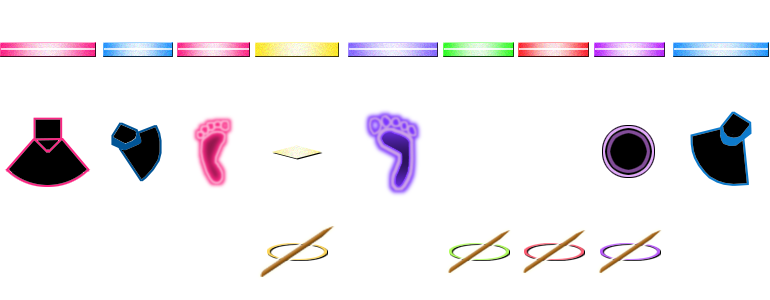
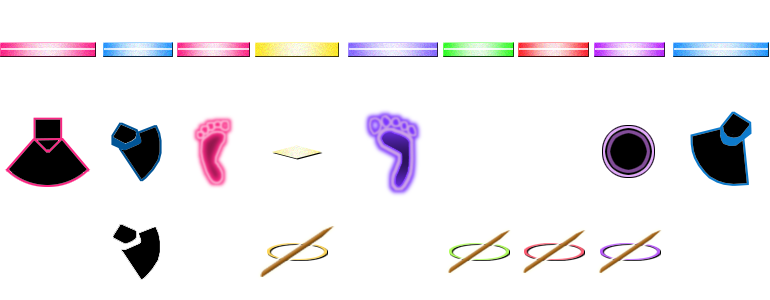
HiHat_HalfOoen/Open の画像を変更。

Changed region(s): [[0.1247, 0.75, 0.2182, 0.93]]

diff --git a/DTXmatixx/ステージ/演奏/演奏ステージ.cs b/DTXmatixx/ステージ/演奏/演奏ステージ.cs
@@ -957,6 +957,7 @@ namespace DTXmatixx.ステージ.演奏
                 {
                     var たて方向中央位置dpx = (float) ( this._ドラムチップ画像設定[ "縦方向中央位置" ] );
                     var 左端位置dpx = レーンフレーム.領域.Left + レーンフレーム.現在のレーン配置.表示レーンの左端位置dpx[ 表示レーン種別 ];
+                    var 中央位置Xdpx = 左端位置dpx + レーンフレーム.現在のレーン配置.表示レーンの幅dpx[ 表示レーン種別 ] / 2f;
 
                     #region " チップ背景（あれば）を描画する。"
                     //----------------
